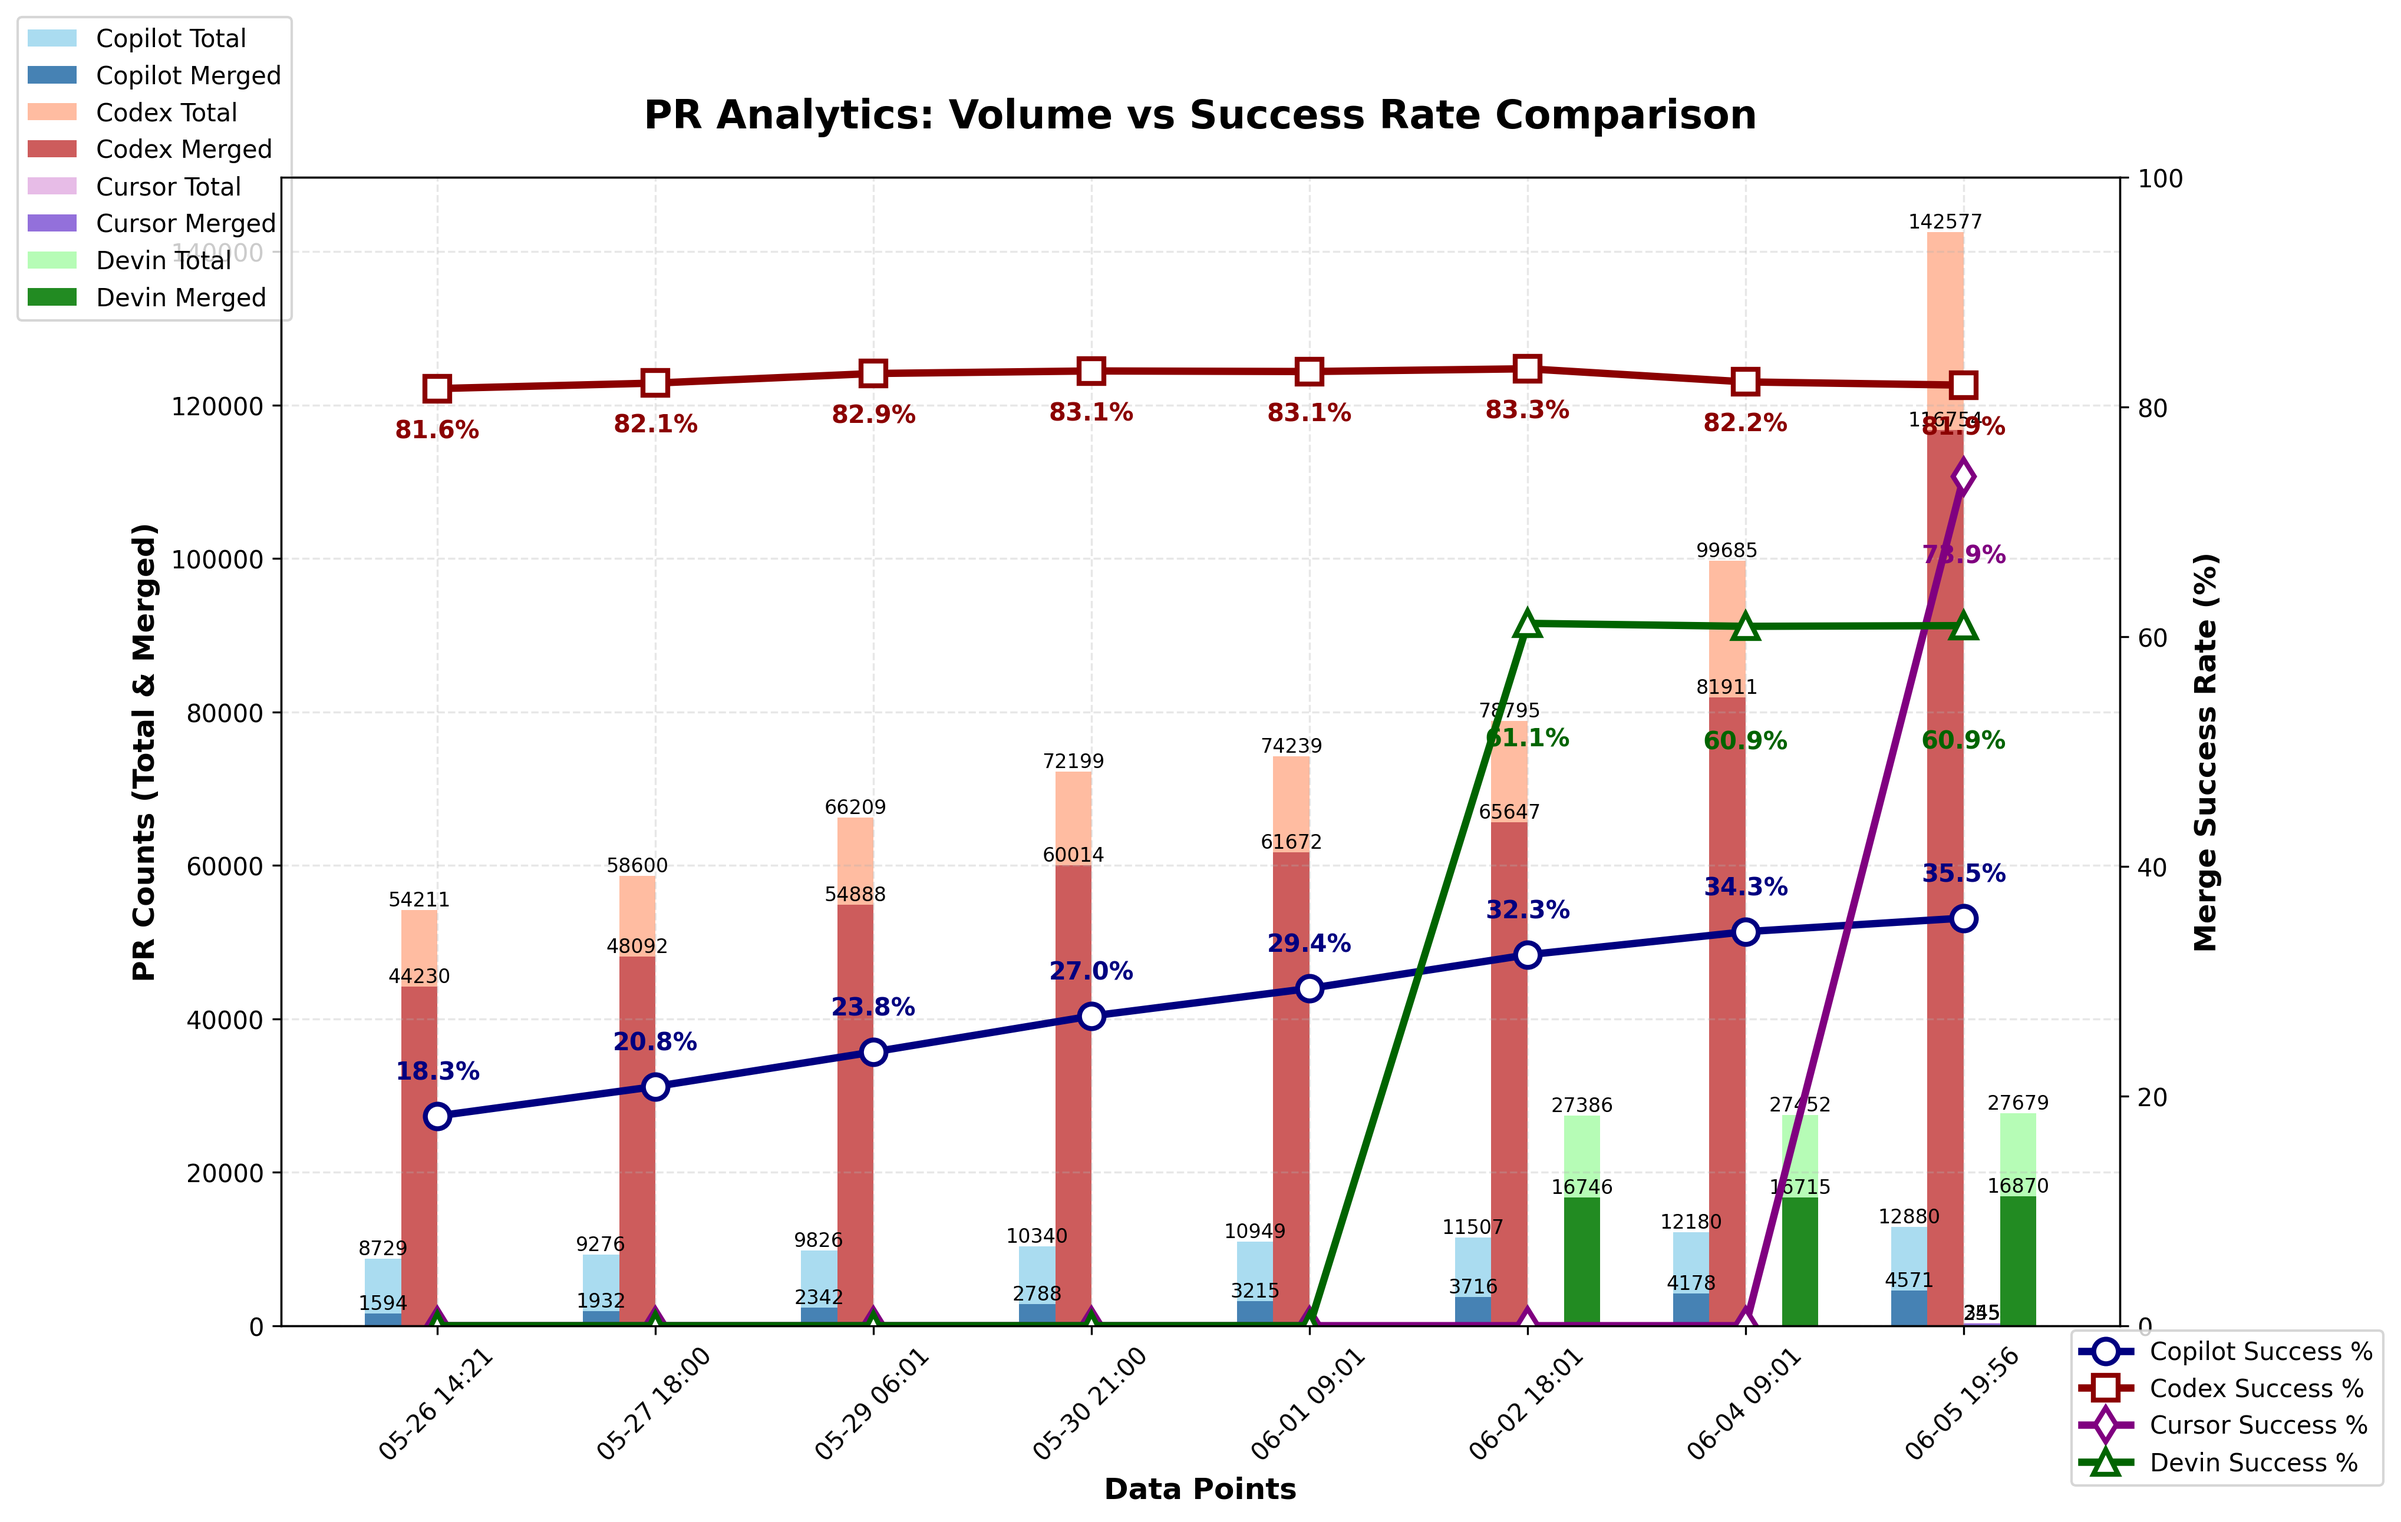
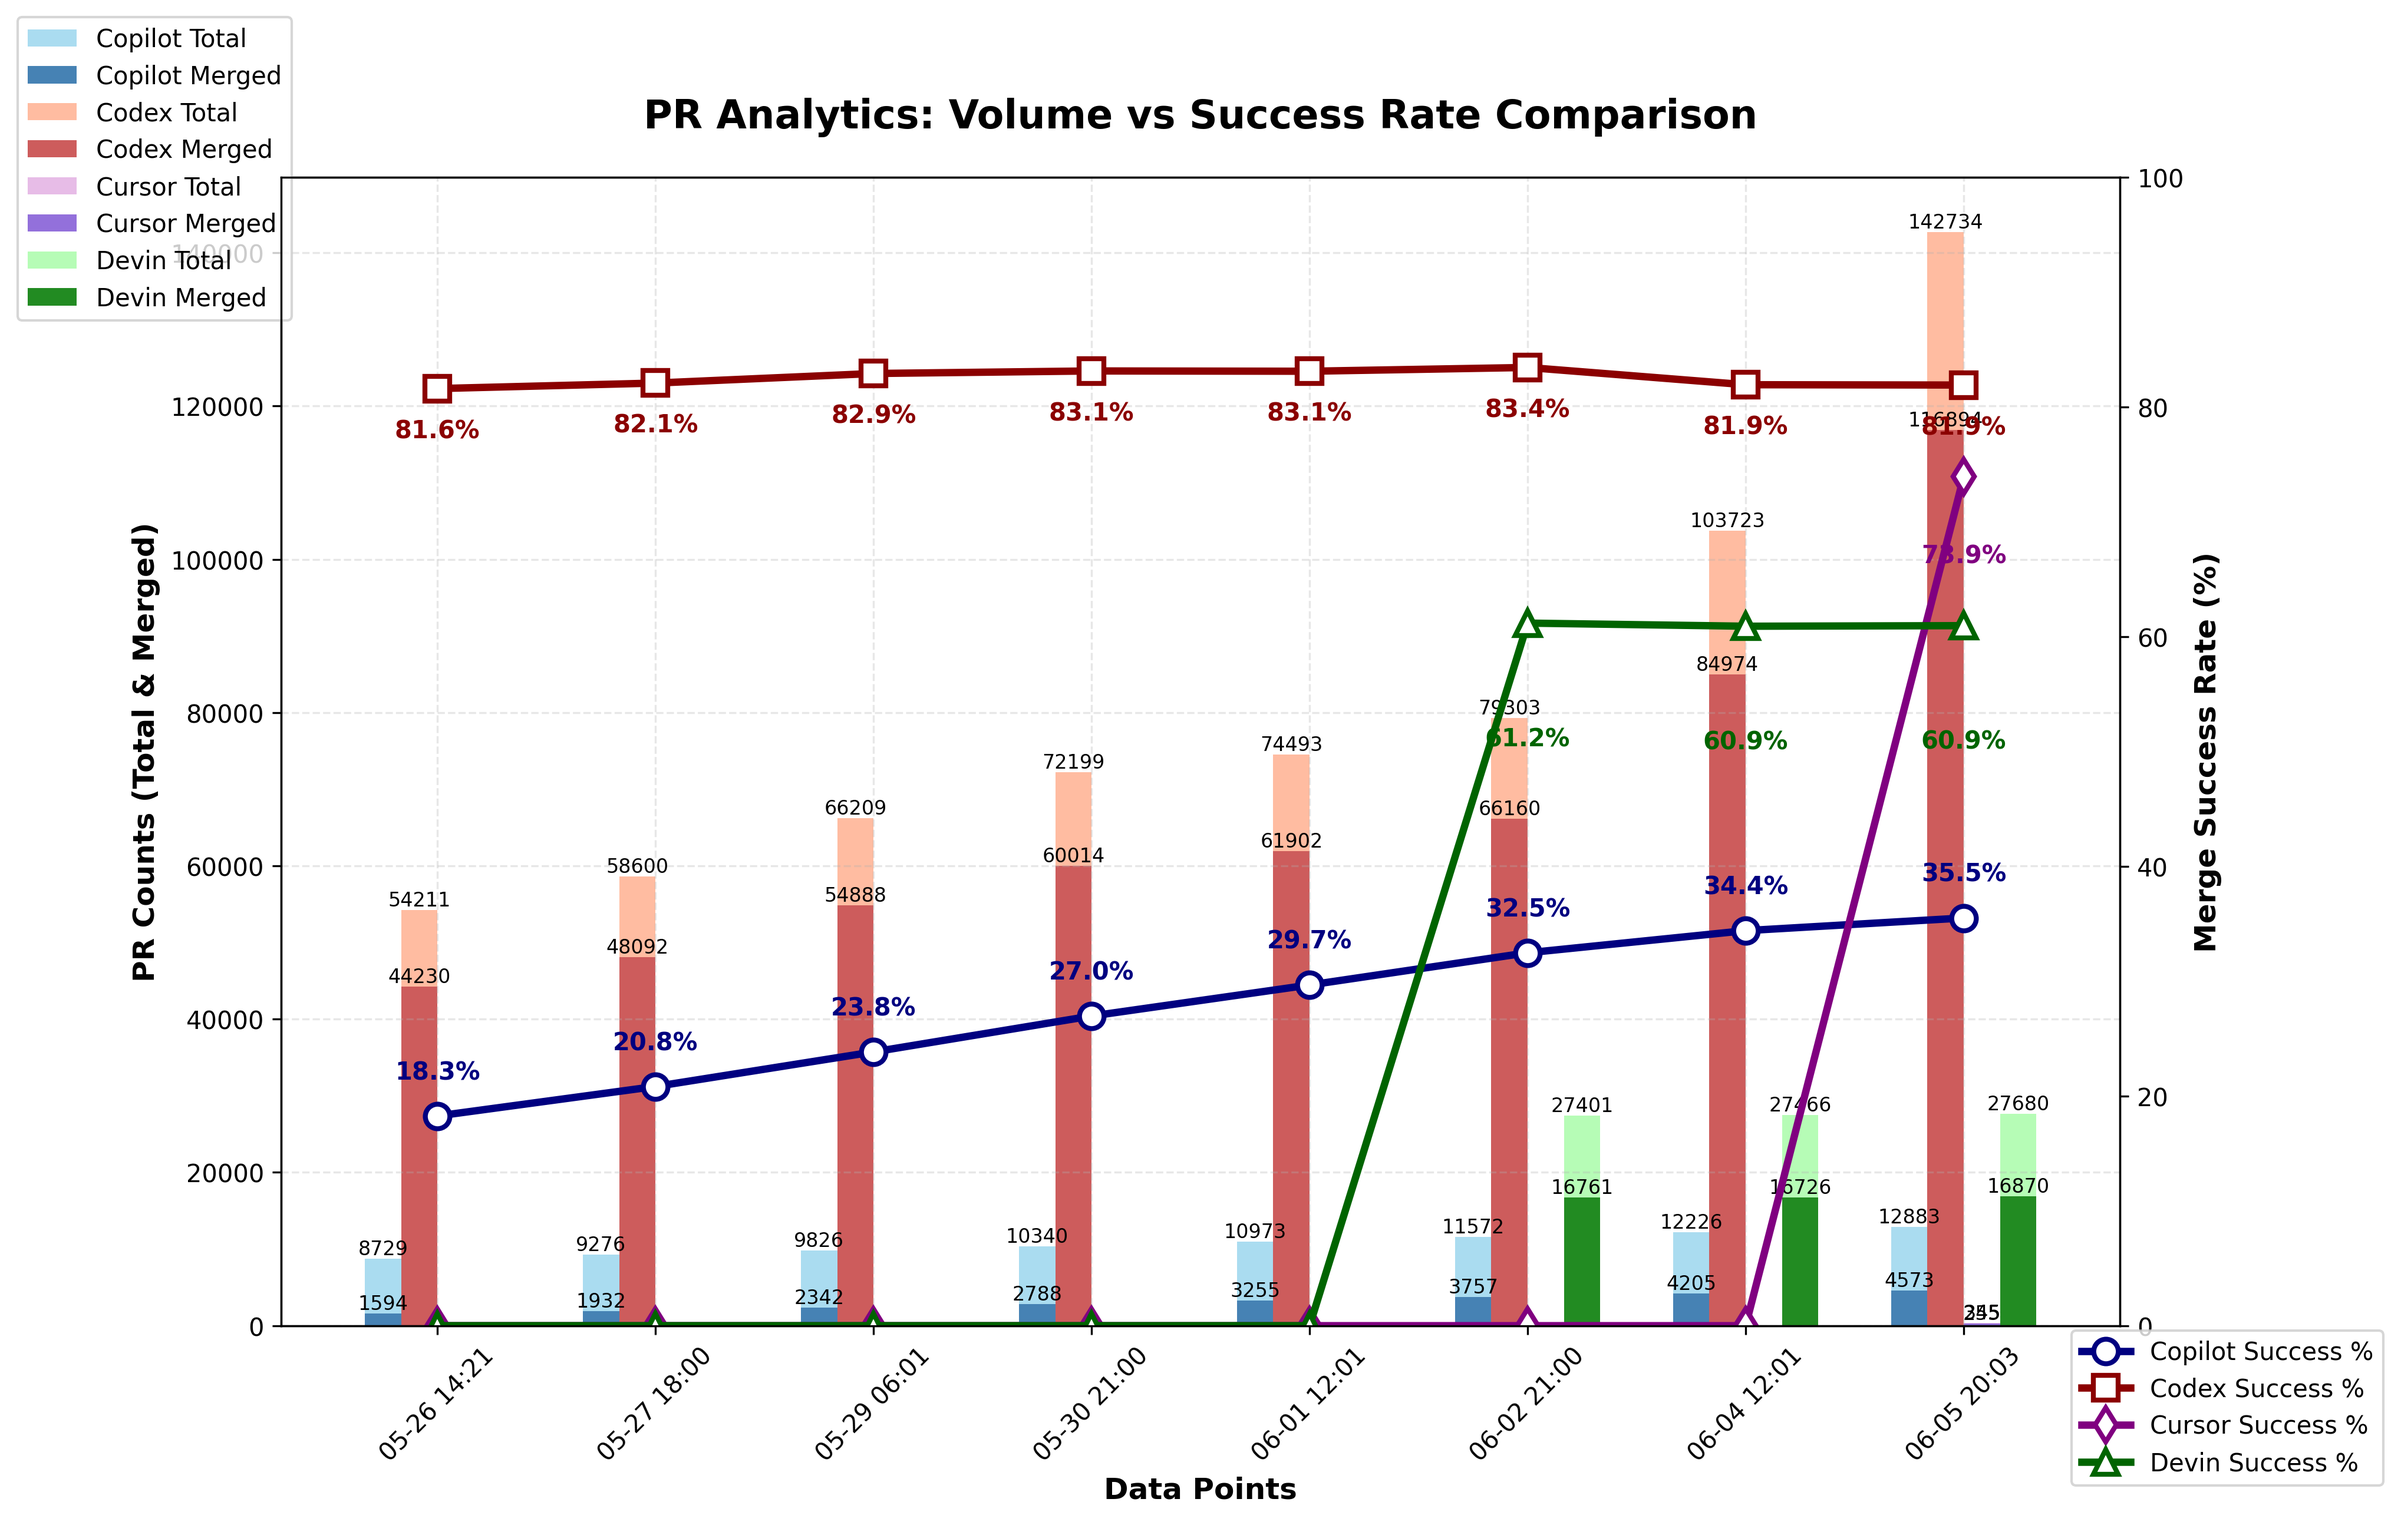
chore: update PR‑approval chart

diff --git a/docs/index.html b/docs/index.html
@@ -272,7 +272,7 @@
 
       <footer>
         <p>
-          Last updated: <span id="last-updated">June 05, 2025 15:56 UTC</span>
+          Last updated: <span id="last-updated">June 05, 2025 20:03 UTC</span>
         </p>
         <p>
           <a href="https://github.com/aavetis/ai-pr-watcher">View on GitHub</a>

diff --git a/README.md b/README.md
@@ -23,7 +23,7 @@ Explore the GitHub search queries used:
 
 | Project | Total PRs | Merged PRs | Merge Rate |
 | ------- | --------- | ---------- | ---------- |
-| Copilot | 12,880 | 4,571 | 35.49% |
-| Codex   | 142,577 | 116,754 | 81.89% |
+| Copilot | 12,883 | 4,573 | 35.50% |
+| Codex   | 142,734 | 116,894 | 81.90% |
 | Cursor  | 345 | 255 | 73.91% |
-| Devin   | 27,679 | 16,870 | 60.95% |
+| Devin   | 27,680 | 16,870 | 60.95% |
